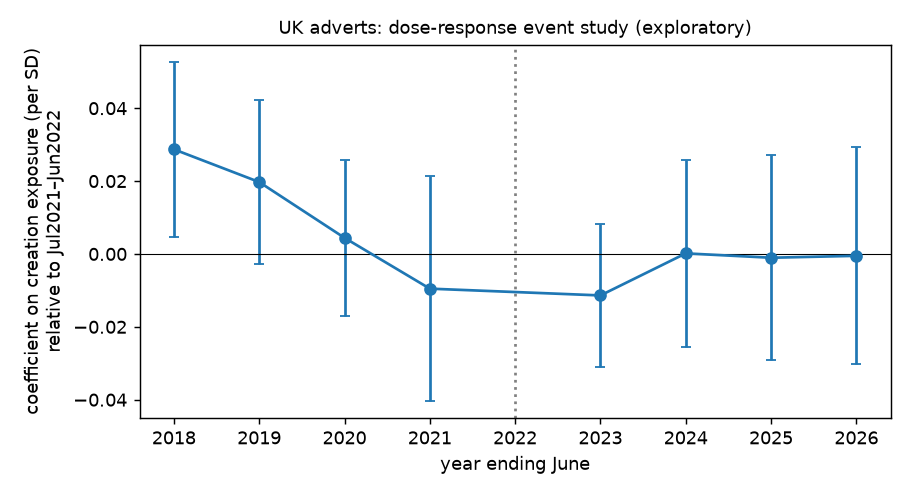
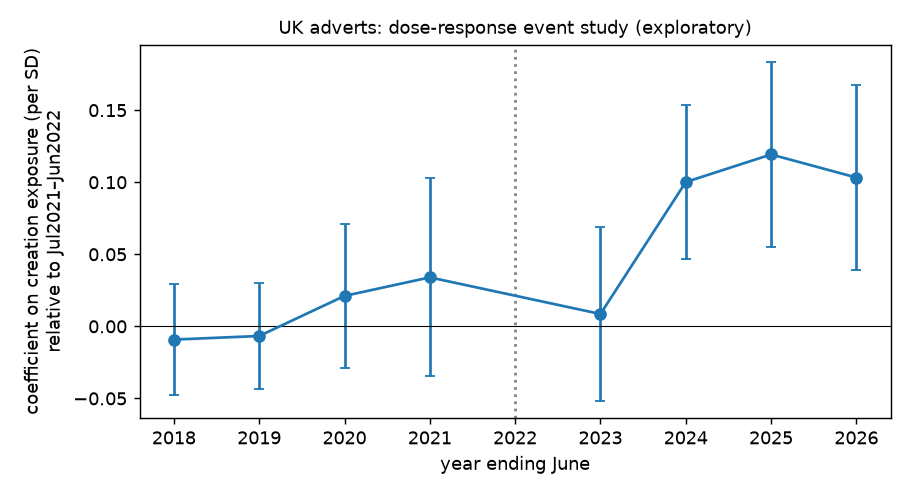
Add rule-based creation score (validated vs LLM labels), coverage-aware UK exposure mapping, 402/backoff handling in classifier
Claude-Session: https://claude.ai/code/session_01H4JvRLBkzRHsy6jU5TcEWv

diff --git a/isr_paper/uk_dose_response.py b/isr_paper/uk_dose_response.py
@@ -7,14 +7,21 @@ Inference check: randomization of E across occupations within SOC sub-major grou
 import json, re, sys, collections, numpy as np, pandas as pd
 import uk_exposure as UX
 import classify_onet as C
-cls=[json.loads(l) for l in open("data/all_creation_sonnet55.jsonl")]
-print("classified tasks:",len(cls),"of 18796")
-tasks=pd.DataFrame(cls); tasks["soc"]=tasks.soc.astype(str)
+import os, rule_creation as RC
+EXPO=os.environ.get("EXPO","llm")
+if EXPO=="rule":      # rule-based score on ALL 18,796 tasks (no LLM; validated against LLM labels in rule_creation.py)
+    tasks=pd.DataFrame(C.load()); tasks["s"]=tasks.text.map(RC.score); print("exposure source: RULE-BASED, tasks scored:",len(tasks))
+else:
+    cls=[json.loads(l) for l in open("data/all_creation_sonnet55.jsonl")]; print("exposure source: LLM, classified tasks:",len(cls),"of 18796")
+    tasks=pd.DataFrame(cls)
+tasks["soc"]=tasks.soc.astype(str)
 occ=tasks.groupby("soc").s.agg(lambda x:(x/2).mean()); occ_any=tasks.groupby("soc").s.agg(lambda x:(x>0).mean())
 E,covE=UX.uk_exposure(occ.to_dict()); E2,_=UX.uk_exposure(occ_any.to_dict())
 import csv
 lang={r["O*NET-SOC Code"]:float(r["dv_rating_beta"]) for r in csv.DictReader(open("data/ext/occ_level.csv"))}
 L,_=UX.uk_exposure(lang)
+E,covE=UX.uk_exposure(occ.to_dict()); covO=UX.uk_exposure.onet_cov   # coverage of O*NET occupations classified so far (partial run: SOC 11-29 only)
+MINCOV=float(sys.argv[1]) if len(sys.argv)>1 else 0.0
 # adverts
 r=pd.read_csv("data/ons/uk_soc4_new_adverts_monthly.csv",dtype={"soc4":str}).set_index("soc4")
 mc=[c for c in r.columns if re.match(r"[A-Z][a-z]{2}-\d\d$",c)]
@@ -22,7 +29,9 @@ X=r[mc].apply(pd.to_numeric,errors="coerce"); X.columns=pd.to_datetime(["01-"+c 
 X=X.T.interpolate(method="linear",limit=2,limit_area="inside").T
 def year(t): return X.loc[:,pd.Timestamp(f"{t-1}-07-01"):pd.Timestamp(f"{t}-06-01")].sum(axis=1,min_count=12)
 years=list(range(2018,2027)); A={t:year(t) for t in years}
-df=pd.DataFrame({"E":E,"E2":E2,"L":L}).join(pd.DataFrame(A)).dropna()
+df=pd.DataFrame({"E":E,"E2":E2,"L":L,"cov":covO}).join(pd.DataFrame(A)).dropna()
+print("UK occupations by O*NET classification coverage: >=0.9:",int((df["cov"]>=0.9).sum()),"| >=0.5:",int((df["cov"]>=0.5).sum()),"| all:",len(df))
+df=df[df["cov"]>=MINCOV]
 df=df[df[2022]>=1000].copy(); df["minor"]=df.index.str[:3]; df["sub"]=df.index.str[:2]; df["major"]=df.index.str[:1]
 print("occupations in estimation sample:",len(df)); 
 for c in ("E","L"): df["z"+c]=(df[c]-df[c].mean())/df[c].std()
@@ -45,7 +54,7 @@ for spec,fe,cl in (("no FE, controls L",None,True),("major-group FE, controls L"
         d=df.copy(); y=(np.log(d[t])-np.log(d[2022])).values; X=design(d,fe,cl); b,se=ols_cluster(y,X,d.minor.values)
         rows.append((spec,t,b[1],se[1])) 
 res=pd.DataFrame(rows,columns=["spec","t","b_E","se"]); res["lo"]=res.b_E-1.96*res.se; res["hi"]=res.b_E+1.96*res.se
-res.to_csv("data/ons/uk_dose_response.csv",index=False)
+res.to_csv(f"data/ons/uk_dose_response_{EXPO}.csv",index=False)
 print("\nCoefficient on z(E): change in ln adverts (year t vs Jul21-Jun22) per 1 SD of creation exposure")
 piv=res.pivot(index="spec",columns="t",values="b_E"); pse=res.pivot(index="spec",columns="t",values="se")
 for sp in piv.index: print(sp.ljust(30)," ".join(f"{t}:{piv.loc[sp,t]:+.3f}({pse.loc[sp,t]:.3f})" for t in piv.columns))
@@ -64,4 +73,4 @@ d=df.drop(index=[i for i in ["2141"] if i in df.index]); y=(np.log(d[2025])-np.l
 d=df.copy(); y=(np.log(d[2025])-np.log(d[2022])).values; w=np.sqrt(d[2022].values); Xw=design(d,"sub")*w[:,None]; b,se=ols_cluster(y*w,Xw,d.minor.values); print("volume-weighted, 2025:",round(b[1],3),"se",round(se[1],3))
 import matplotlib; matplotlib.use("Agg"); import matplotlib.pyplot as plt
 fig,ax=plt.subplots(figsize=(7,3.8)); s=res[res.spec=="sub-major FE, controls L"]; ax.errorbar(s.t,s.b_E,yerr=1.96*s.se,fmt="o-",color="#1f77b4",capsize=3); ax.axhline(0,color="black",lw=.6); ax.axvline(2022,color="gray",ls=":")
-ax.set_xlabel("year ending June"); ax.set_ylabel("coefficient on creation exposure (per SD)\nrelative to Jul2021–Jun2022"); ax.set_title("UK adverts: dose-response event study (exploratory)",fontsize=10); plt.tight_layout(); plt.savefig("data/ons/uk_dose_response.png",dpi=130)
+ax.set_xlabel("year ending June"); ax.set_ylabel("coefficient on creation exposure (per SD)\nrelative to Jul2021–Jun2022"); ax.set_title("UK adverts: dose-response event study (exploratory)",fontsize=10); plt.tight_layout(); plt.savefig(f"data/ons/uk_dose_response_{EXPO}.png",dpi=130)

diff --git a/isr_paper/rule_creation.py b/isr_paper/rule_creation.py
@@ -1,0 +1,23 @@
+"""Rule-based (no-LLM) score of O*NET task statements for visual content creation, using the same 0/1/2 rubric as prompt_creation.txt.
+Patterns written from the rubric text (not tuned to outcomes); validated against LLM labels on classified tasks (dev = first half of classified ids, test = second half)."""
+import re, json, numpy as np, pandas as pd
+VERB=r"(?:creat|design|produc|develop|prepar|edit|draw|paint|photograph|shoot|film|render|retouch|compos|lay\s*out|animat|illustrat|sketch|generat|build|construct|mak)\w*"
+OBJ2=r"(?:presentation\w*|chart\w*|graphs?|visuali[sz]ation\w*|diagram\w*|promotional\s+material\w*|advertis\w+\s+material\w*|publication\w*|web\s*(?:page|site)\w*|banner\w*|infographic\w*|slides?|exhibit\w*|display\w*|signs?\b|packag\w+\s+design\w*)"
+OBJ=r"(?:graphic\w*|illustrat\w*|photograph\w*|video\w*|film\w*|animat\w*|drawing\w*|sketch\w*|layout\w*|artwork\w*|visual\s+(?:design|display|merchandis|content|media|effect|material)\w*|multimedia|logo\w*|poster\w*|storyboard\w*|mock-?ups?|paintings?|murals?|cartoon\w*|image\w*|picture\w*|visual\s+aid\w*|brochure\w*|advertis\w+\s+(?:art|material|design|layout|copy)\w*)"
+STRONG=re.compile(r"(?i)\b(?:photograph\w*|retouch\w*|animat\w+|illustrat\w*|storyboard\w*|graphic\s+design\w*|(?:video|film|motion\s+picture)\w*\s+(?:edit|produc|shoot)\w*|(?:edit|produc|shoot|compos)\w*\s+(?:video|film|photograph|image|graphic)\w*|sketch\w*\s+(?:rough|detailed|design)\w*)\b")
+NEAR=re.compile(rf"(?i)\b{VERB}\b(?:\W+\w+){{0,6}}?\W+{OBJ}\b|\b{OBJ}\b(?:\W+\w+){{0,6}}?\W+\b{VERB}\b")
+ANY=re.compile(rf"(?i)\b{OBJ}\b")
+NEAR2=re.compile(rf"(?i)\b(?:creat|design|produc|develop|prepar|edit|generat|build|mak)\w*\b(?:\W+\w+){{0,5}}?\W+{OBJ2}\b")
+def score(text:str)->int:
+    if STRONG.search(text): return 2
+    if NEAR.search(text) or NEAR2.search(text): return 1
+    return 0
+def f1(y,p):
+    tp=((y==1)&(p==1)).sum(); fp=((y==0)&(p==1)).sum(); fn=((y==1)&(p==0)).sum(); pr=tp/max(tp+fp,1); rc=tp/max(tp+fn,1); return pr,rc,2*pr*rc/max(pr+rc,1e-9)
+if __name__=="__main__":
+    r=pd.DataFrame([json.loads(l) for l in open("data/all_creation_sonnet55.jsonl")]).sort_values("id"); r["rule"]=r.text.map(score)
+    half=len(r)//2
+    for name,d in (("dev (first half)",r.iloc[:half]),("test (second half)",r.iloc[half:])):
+        y=(d.s>0).astype(int).values; p=(d.rule>0).astype(int).values; pr,rc,ff=f1(y,p)
+        y2=(d.s==2).astype(int).values; p2=(d.rule==2).astype(int).values; pr2,rc2,ff2=f1(y2,p2)
+        oc=d.groupby("soc").agg(l=("s",lambda x:(x/2).mean()),u=("rule",lambda x:(x/2).mean())); print(f"{name}: n={len(d)} | any>=1: P={pr:.2f} R={rc:.2f} F1={ff:.2f} | score==2: P={pr2:.2f} R={rc2:.2f} F1={ff2:.2f} | occupation-level corr(LLM,rule)={oc.l.corr(oc.u):.3f} (n_occ={len(oc)}), Spearman={oc.l.rank().corr(oc.u.rank()):.3f}")

diff --git a/isr_paper/uk_exposure.py b/isr_paper/uk_exposure.py
@@ -27,10 +27,16 @@ def uk_exposure(onet_exposure:dict):
     for soc,v in onet_exposure.items():
         for i in o2i.get(soc,()): byisco[i].append(v)
     E={i:float(np.mean(v)) for i,v in byisco.items()}
-    W=isco_weights(); out={}; cov={}
+    inv=collections.defaultdict(set)
+    for soc,iscos in o2i.items():
+        for i in iscos: inv[i].add(soc)
+    fr={i:len([c for c in inv[i] if c in onet_exposure])/len(inv[i]) for i in inv}      # share of mapped O*NET occupations that have an exposure value
+    W=isco_weights(); out={}; cov={}; covo={}
     for s,w in W.items():
         tot=sum(wt for i,wt in w.items() if i in E)
-        if tot>0: out[s]=sum(wt*E[i] for i,wt in w.items() if i in E)/tot; cov[s]=tot
+        if tot>0:
+            out[s]=sum(wt*E[i] for i,wt in w.items() if i in E)/tot; cov[s]=tot; covo[s]=sum(wt*fr.get(i,0) for i,wt in w.items())
+    uk_exposure.onet_cov=pd.Series(covo)
     return pd.Series(out),pd.Series(cov)
 if __name__=="__main__":
     lang={r["O*NET-SOC Code"]:float(r["dv_rating_beta"]) for r in csv.DictReader(open("data/ext/occ_level.csv"))}

diff --git a/isr_paper/classify_onet.py b/isr_paper/classify_onet.py
@@ -31,7 +31,7 @@ def call(model,batch,key):
             lab={int(i):int(v) for i,v in re.findall(r'"i"\s*:\s*(\d+)\s*,\s*"s"\s*:\s*([012])',txt)}   # tolerant to malformed JSON
             if all(t["id"] in lab and lab[t["id"]] in (0,1,2) for t in batch): return lab,r.get("usage",{})
         except Exception as e:
-            err=e; time.sleep(min(60,5*2**a))
+            err=e; print(f'  attempt {a} failed: {repr(e)[:120]}',file=sys.stderr,flush=True); time.sleep(min(30,2*2**a))
     raise RuntimeError(f"batch failed: {err}")
 if __name__=="__main__":
     ap=argparse.ArgumentParser(); ap.add_argument("--model",required=True); ap.add_argument("--n",type=int); ap.add_argument("--out",required=True)
